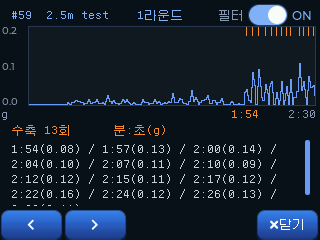
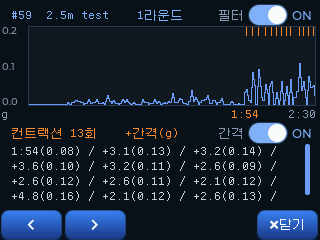
docs: FW 2.4a 반영 — 랜딩·매뉴얼 캡처 교체 + 다운로드 페이지
별님 실기 검증·빌드 완료(SRC 태그 v2.12). 캡처는 별님이 새로 찍어 올렸다.

## 캡처 (2.4a 화면으로)
- 컨트랙션 그래프 한·영 · 필터 ON · 호흡 설정 1·2·3페이지
- `-2.4a` 임시 이름으로 담아 두었던 셋은 라이브 이름으로 옮기고 지웠다.

## 매뉴얼
- **'수축' 15곳 → '컨트랙션'** (장비 화면 표기와 맞춘다)
- 「그래프 다시 보기」에 **「간격」 스위치** 설명
- 이퀄 설정 표 — 1페이지 「호흡 모드로 전환」 · 4페이지 「자동 종료」
- 호흡 설정 표 — 1페이지 맨 위 모드 전환 / 안내 목소리를 2페이지로 /
  **「시간 안내」 항목 신설**(드라이 스태틱 설명) / 「매 분」에 30초 조합 / 3페이지 두 줄
- 그래프 눈금 0.1~0.5 → **0.1~1.0**
- 버전 표기 **두 곳** v2.4a · 갱신일 2026-09-07

## 다운로드 페이지
v2.4a 행 추가(맨 위·「최신」 배지). 내려받기 링크는 릴리스 태그 `v2.4a` 기준.
⬜ **GitHub Release 에 equpdate_2.4a.uf2 / .bin 이 올라간 뒤에 실제로 열린다.**

⛔ 이 페이지는 **과거 비교나 이유("~때문에")를 붙이지 않는다** — 바뀐 사실만.
   릴리스 노트도 같은 기준이다(별님 2026-09-07, 이번 판에서 한 번 물렸다).

diff --git a/download/index.html b/download/index.html
@@ -164,7 +164,24 @@
              SD 없이 되는 쪽이 기본 권장이다. 영문 페이지도 같이 고칠 것. -->
         <tbody>
           <tr>
-            <td class="ver">v2.4 <span class="latest">최신</span></td>
+            <td class="ver">v2.4a <span class="latest">최신</span></td>
+            <td class="date">2026-09-07</td>
+            <td>
+              <ul>
+                <li><b>드라이 스태틱 훈련.</b> 테이블을 <b>1라운드 · 최대 시간</b>으로 만들고 설정 2페이지 「시간 안내」를 <b>지나간 시간</b>으로 두면 됩니다. 숨참기에서 "1분", "2분" 하고 올라가며 부릅니다. 이때 10초 전·카운트다운은 나오지 않습니다(호흡 구간은 그대로). 기본은 남은 시간입니다.</li>
+                <li><b>「매 분」과 「30초 전」을 둘 다 켜면 30초마다</b> 알려 줍니다. "1분 30초", "2분 30초" 도 부릅니다.</li>
+                <li><b>컨트랙션 그래프에 「간격」 스위치.</b> 켜면 둘째 항목부터 앞 컨트랙션과의 시간 차가 나옵니다 — <code>1:18(0.23) / +3.8(0.19)</code>. 화면 문구도 <b>컨트랙션</b>으로 통일했습니다.</li>
+                <li><b>그래프 눈금을 0.1 ~ 1.0g</b> 에서 고릅니다. 라운드를 넘겨도 <b>필터가 유지</b>됩니다.</li>
+                <li><b>켤 때마다 「팁」이 하나씩 나옵니다.</b> 이퀄 그래프 아래에 조작법이 한 줄 뜨고, 화면을 만지면 사라집니다 — 3손가락 탭 스크린샷 · 두 손가락 확대 · 확대 후 밀어서 이동 · 툭 쳐서 시작 · 압력이 1분간 없으면 측정 자동 종료.</li>
+                <li><b>설정에서 모드 전환이 첫 페이지 맨 위로</b> 왔습니다(이퀄·호흡 양쪽). 호흡 USB 는 첫 페이지 맨 아래, 이퀄 자동 종료는 마지막 페이지입니다. <b>페이지 넘김 화살표도 넓어졌습니다.</b></li>
+                <li><b>영점을 잡는 5초 동안</b> 「압력을 가하거나 충격을 주지 마세요」가 뜹니다.</li>
+                <li>고친 것 — 한 훈련에 컨트랙션이 96건을 넘으면 기록 파일에 다 남지 않던 것 · 도움말 줄이 화면 폭을 안 채우던 것 · 영문에서 라운드 이름이 다음 칸과 붙던 것 · 파일을 고르기 전에도 [열기]·[변경]·[복사]·[삭제] 가 눌리던 것.</li>
+              </ul>
+            </td>
+            <td class="dl"><div class="dls"><a class="dlbtn" href="https://github.com/byulbada/equalscope-2.8-firmware/releases/download/v2.4a/equpdate_2.4a.uf2">내려받기 <small>.uf2</small></a><a class="dlbtn" href="https://github.com/byulbada/equalscope-2.8-firmware/releases/download/v2.4a/equpdate_2.4a.bin">내려받기 <small>.bin</small></a></div><div class="fname">USB용 .uf2 / SD용 .bin</div></td>
+          </tr>
+          <tr>
+            <td class="ver">v2.4</td>
             <td class="date">2026-09-05</td>
             <td>
               <ul>

diff --git a/en/index.html b/en/index.html
@@ -479,8 +479,7 @@
           ⛔ 한때 여기 "영문 UI 로 다시 찍어야 한다, 그때까지 올리지 말 것" 이라고
              적혀 있었는데 **그 사이 다 찍어 두고 메모만 안 지웠다.** 별님이 잡았다.
              ⇒ 안 한 일을 적어 두면 다음 사람이 그 말을 믿고 멈춘다. 끝난 ⛔ 는 지운다.
-       ⬜ 다만 캡처는 **FW 2.4 화면**이다 — 2.4a 의 「간격」 스위치가 아직 안 보인다.
-          2.4a 를 낼 때 한·영 캡처를 함께 갱신할 것(한글판 assets/ 도 같은 상태다).
+       ✅ 캡처는 **FW 2.4a 화면**으로 갱신됐다 (2026-09-07, 한·영 함께).
        ⛔ "world's first" 를 쓰지 말 것 — 한글판과 같은 이유(그쪽 주석 참고).
           이 페이지의 기존 문법인 `not on other devices` 배지를 쓴다.
        ★★ 2026-09-06 개편 — **근거는 한글판 같은 자리 주석이 정본이다.** 요약:
@@ -505,8 +504,7 @@
         <p>Lie down and <b>put the device on your belly</b> — no strap, nothing to attach, no button to press. While you hold, <b>the belly movement is drawn live</b> along the bottom of the screen.</p>
       </div>
       <div class="card">
-        <!-- ⬜ 2.4a 를 낼 때 `../assets/en/screen-co2-graph-2.4a.png` 로 갈아끼울 것
-             (근거는 한글판 같은 자리 주석). ⛔ 미리 바꾸지 말 것. -->
+        <!-- ✅ FW 2.4a 화면이다 (2026-09-07 교체) — 한글판과 같은 판. -->
         <div class="cardshot"><img loading="lazy" src="../assets/en/screen-co2-graph.png" alt="Contraction graph replay listing the time and movement size of each contraction"></div>
         <h3>Numbers when it ends</h3>
         <p>The round is worked out when it finishes. The summary keeps <b>how many, when the first one came, the average gap</b>, and the graph lists <b>the time and movement size of each one</b>.</p>

diff --git a/index.html b/index.html
@@ -531,11 +531,9 @@
              평균 한 숫자로는 안 보이고, 시각이 다 나와야 눈으로 읽힌다.
            ⛔ 그렇다고 아래 마무리 문단에서 **또** 말하지 말 것(그 자리 주석 참고). -->
       <div class="card">
-        <!-- ⬜ **2.4a 를 낼 때 `assets/screen-co2-graph-2.4a.png` 로 갈아끼울 것**
-             (별님이 미리 찍어 올려 뒀다, 2026-09-06). 지금 이 캡처는 **FW 2.4 화면**이라
-             「간격」 스위치가 없고 머리말도 옛 표기(`수축 13회 분:초(g)`)다.
-             ⛔ 미리 바꾸지 말 것 — 아직 안 나간 기능이 페이지에 먼저 보이면
-                "내 장비엔 왜 없나" 가 된다. 영문판 `assets/en/` 도 같은 짝이 있다. -->
+        <!-- ✅ FW 2.4a 화면이다 (2026-09-07 교체) — 「간격」 스위치가 켜져 있고
+             머리말이 `컨트랙션 13회  +간격(g)` 이다. 영문판도 같은 판으로 바꿨다.
+             ⛔ 다음 릴리스에서 화면이 또 바뀌면 **한·영을 같이** 갈아끼울 것. -->
         <div class="cardshot"><img loading="lazy" src="assets/screen-co2-graph.png" alt="컨트랙션 그래프 다시보기 — 컨트랙션마다 시각과 움직임 크기가 나열된다"></div>
         <h3>끝나면 숫자로</h3>
         <p>라운드가 끝나면 그때 정리해서 보여 줍니다. 요약에 <b>횟수 · 처음 온 시각 · 평균 간격</b>이 남고, 그래프를 열면 <b>하나하나의 시각과 움직임 크기</b>가 차례로 나옵니다.</p>
